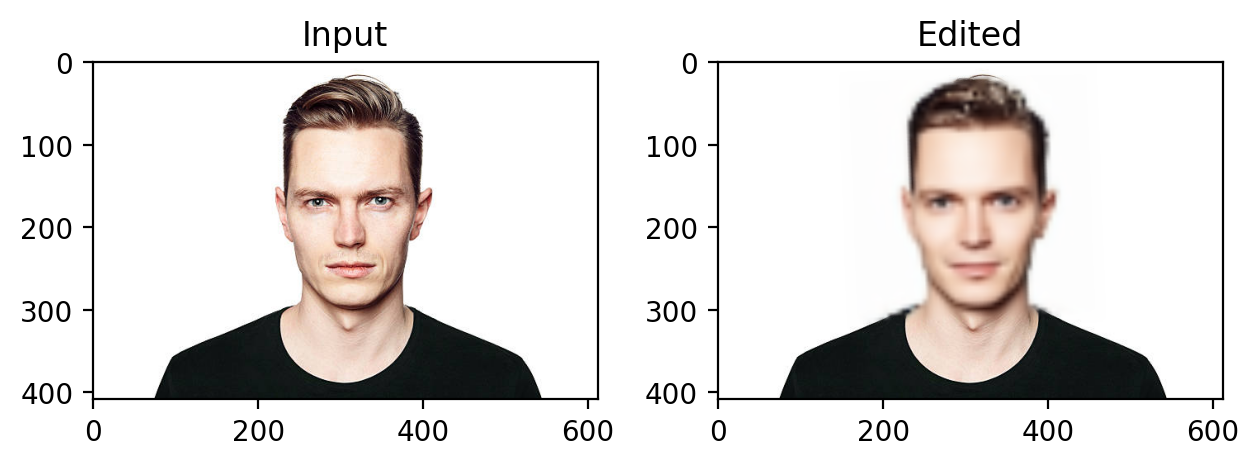
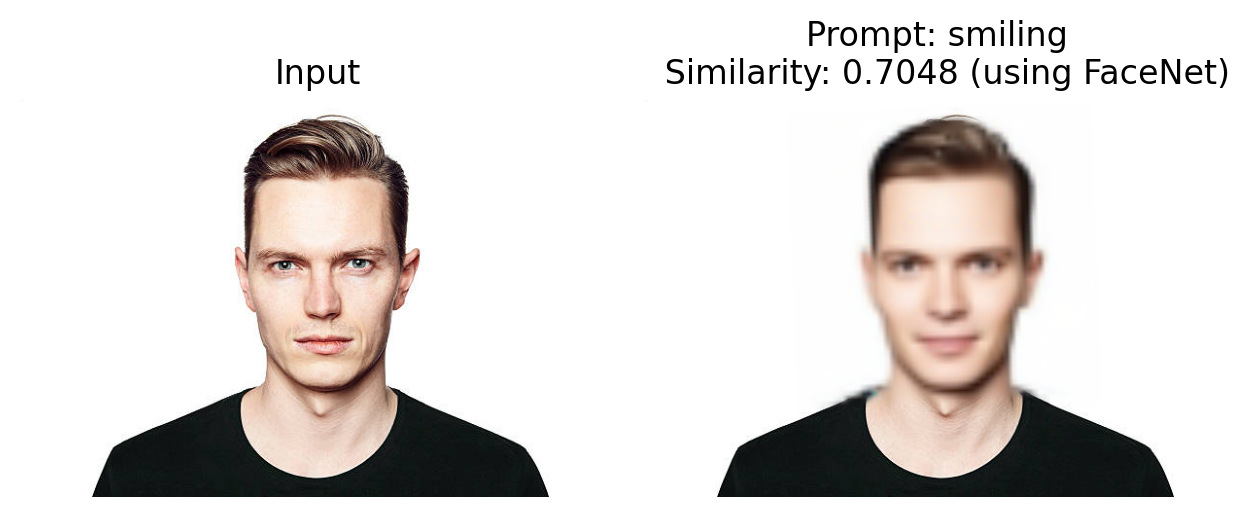
Add face verification

Changed region(s): [[0.0, 0.03, 0.9913, 0.9614]]

diff --git a/smile.py b/smile.py
@@ -1,5 +1,6 @@
 import argparse
 import os
+from typing import Tuple
 
 import cv2
 import matplotlib.pyplot as plt
@@ -10,8 +11,8 @@ import yaml
 from edit_images.ddim_invert_edit import (ddim_edit_from_noise, ddim_invert,
                                           linear_cfg_ramp,
                                           make_ddim_time_pairs)
-from edit_images.face_align import (
-    FaceAligner, build_target_landmark_template_from_aligned_images)
+from edit_images.face_align import FaceAligner
+from edit_images.face_verifier import FaceVerifier
 from helpers.factory import get_model
 from models.base_model import BaseModel
 
@@ -38,11 +39,12 @@ def postprocess_from_model(x: torch.Tensor, renormalise: bool) -> np.ndarray:
 def edit_smile(
     model: BaseModel,
     aligner: FaceAligner,
+    verifier: FaceVerifier,
     input_bgr_path: str,
     prompt: str,
     T_test: int = 50,
     step_percent: float = 0.4,
-) -> np.ndarray:
+) -> Tuple[np.ndarray, float]:
     bgr = cv2.imread(input_bgr_path)
 
     # detect face, align
@@ -74,7 +76,8 @@ def edit_smile(
 
     edited_aligned_rgb = postprocess_from_model(x_edit, renormalise=model.renormalise)
     out_bgr = aligner.unalign_and_paste(edited_aligned_rgb, bgr, meta, feather=10)
-    return out_bgr
+    similarity = verifier.get_similarity(aligned_rgb, edited_aligned_rgb)
+    return out_bgr, similarity
 
 
 if __name__ == "__main__":
@@ -135,20 +138,25 @@ if __name__ == "__main__":
     model = model.to("cuda")
 
     aligner = FaceAligner(image_size=args.image_size, device="cuda")
+    verifier = FaceVerifier(device="cuda")
 
-    out = edit_smile(
+    out, sim_score = edit_smile(
         model,
         aligner,
+        verifier,
         args.input,
         prompt=args.prompt,
         T_test=args.T_test,
         step_percent=args.step_percent,
     )
+    print(f"Face similarity (higher is better): {sim_score:.4f}")
     plt.subplot(1, 2, 1)
+    plt.axis("off")
     plt.imshow(cv2.cvtColor(cv2.imread(args.input), cv2.COLOR_BGR2RGB))
     plt.title("Input")
     plt.subplot(1, 2, 2)
-    plt.title("Edited")
+    plt.axis("off")
+    plt.title(f"Prompt: {args.prompt} \n Similarity: {sim_score:.4f} (using FaceNet)")
     plt.imshow(cv2.cvtColor(out, cv2.COLOR_BGR2RGB))
 
     plt.tight_layout()

diff --git a/edit_images/face_verifier.py b/edit_images/face_verifier.py
@@ -1,0 +1,38 @@
+import cv2
+import numpy as np
+import torch
+from facenet_pytorch import InceptionResnetV1
+
+
+class FaceVerifier:
+    def __init__(self, device="cuda"):
+        self.device = device
+        # Load once, keep in memory
+        self.resnet = InceptionResnetV1(pretrained="vggface2").eval().to(device)
+
+    def preprocess(self, img: np.ndarray):
+        # resize
+        img = cv2.resize(img, (160, 160))
+        # standardize (Whitening) - This is what facenet-pytorch expects
+        img = (img - 127.5) / 128.0
+        # to Tensor
+        img = (
+            torch.from_numpy(img).permute(2, 0, 1).unsqueeze(0).float().to(self.device)
+        )
+        return img
+
+    @torch.no_grad()
+    def get_similarity(self, face1: np.ndarray, face2: np.ndarray) -> float:
+        t1 = self.preprocess(face1)
+        t2 = self.preprocess(face2)
+
+        emb1 = self.resnet(t1)
+        emb2 = self.resnet(t2)
+
+        # L2 Normalization
+        emb1 = torch.nn.functional.normalize(emb1, p=2, dim=1)
+        emb2 = torch.nn.functional.normalize(emb2, p=2, dim=1)
+
+        # Cosine Similarity
+        similarity = (emb1 * emb2).sum().item()
+        return similarity

diff --git a/loaders/celeb_hq.py b/loaders/celeb_hq.py
@@ -117,13 +117,13 @@ def get_celeb_hq_dataloader(
     dataset = CelebAHQDataset(root=root, transform=transform, attr_target=attr_target)
 
     dataloader = DataLoader(
-            dataset,
-            batch_size=batch_size,
-            shuffle=shuffle,
-            num_workers=num_workers,
-            pin_memory=pin_memory,
-            persistent_workers=persistent_workers,
-            drop_last=True,
-        )
+        dataset,
+        batch_size=batch_size,
+        shuffle=shuffle,
+        num_workers=num_workers,
+        pin_memory=pin_memory,
+        persistent_workers=persistent_workers,
+        drop_last=True,
+    )
     dataloader.image_size = image_size
     return dataloader

diff --git a/README.md b/README.md
@@ -88,6 +88,7 @@ You can donwload this model from [here](https://drive.google.com/file/d/1Pb9B6iu
 
 #### Results for CFG based image editing (add smile)
 **Positive example**
+![Results1](assets/comparison_serious_face.png)
 ![Results2](assets/comparison_serious_face_2.png)
 
 **Incorrect identity** preservation:
